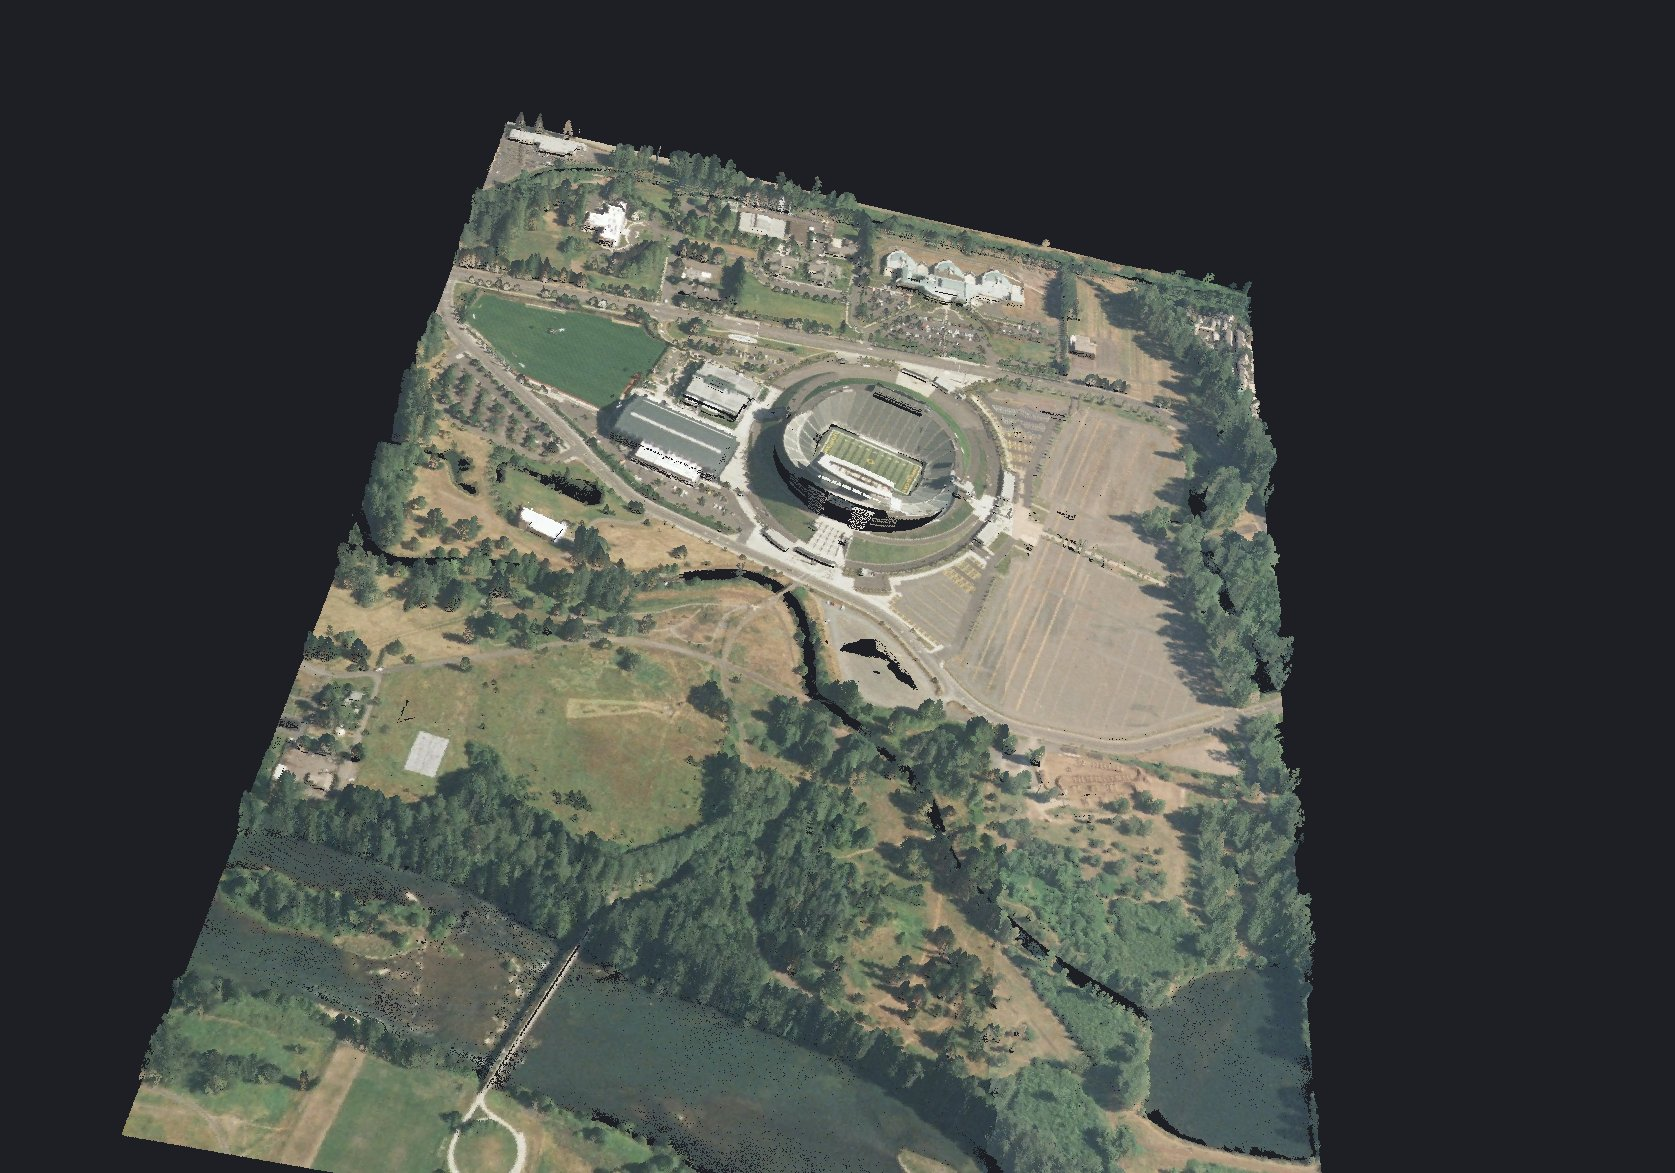
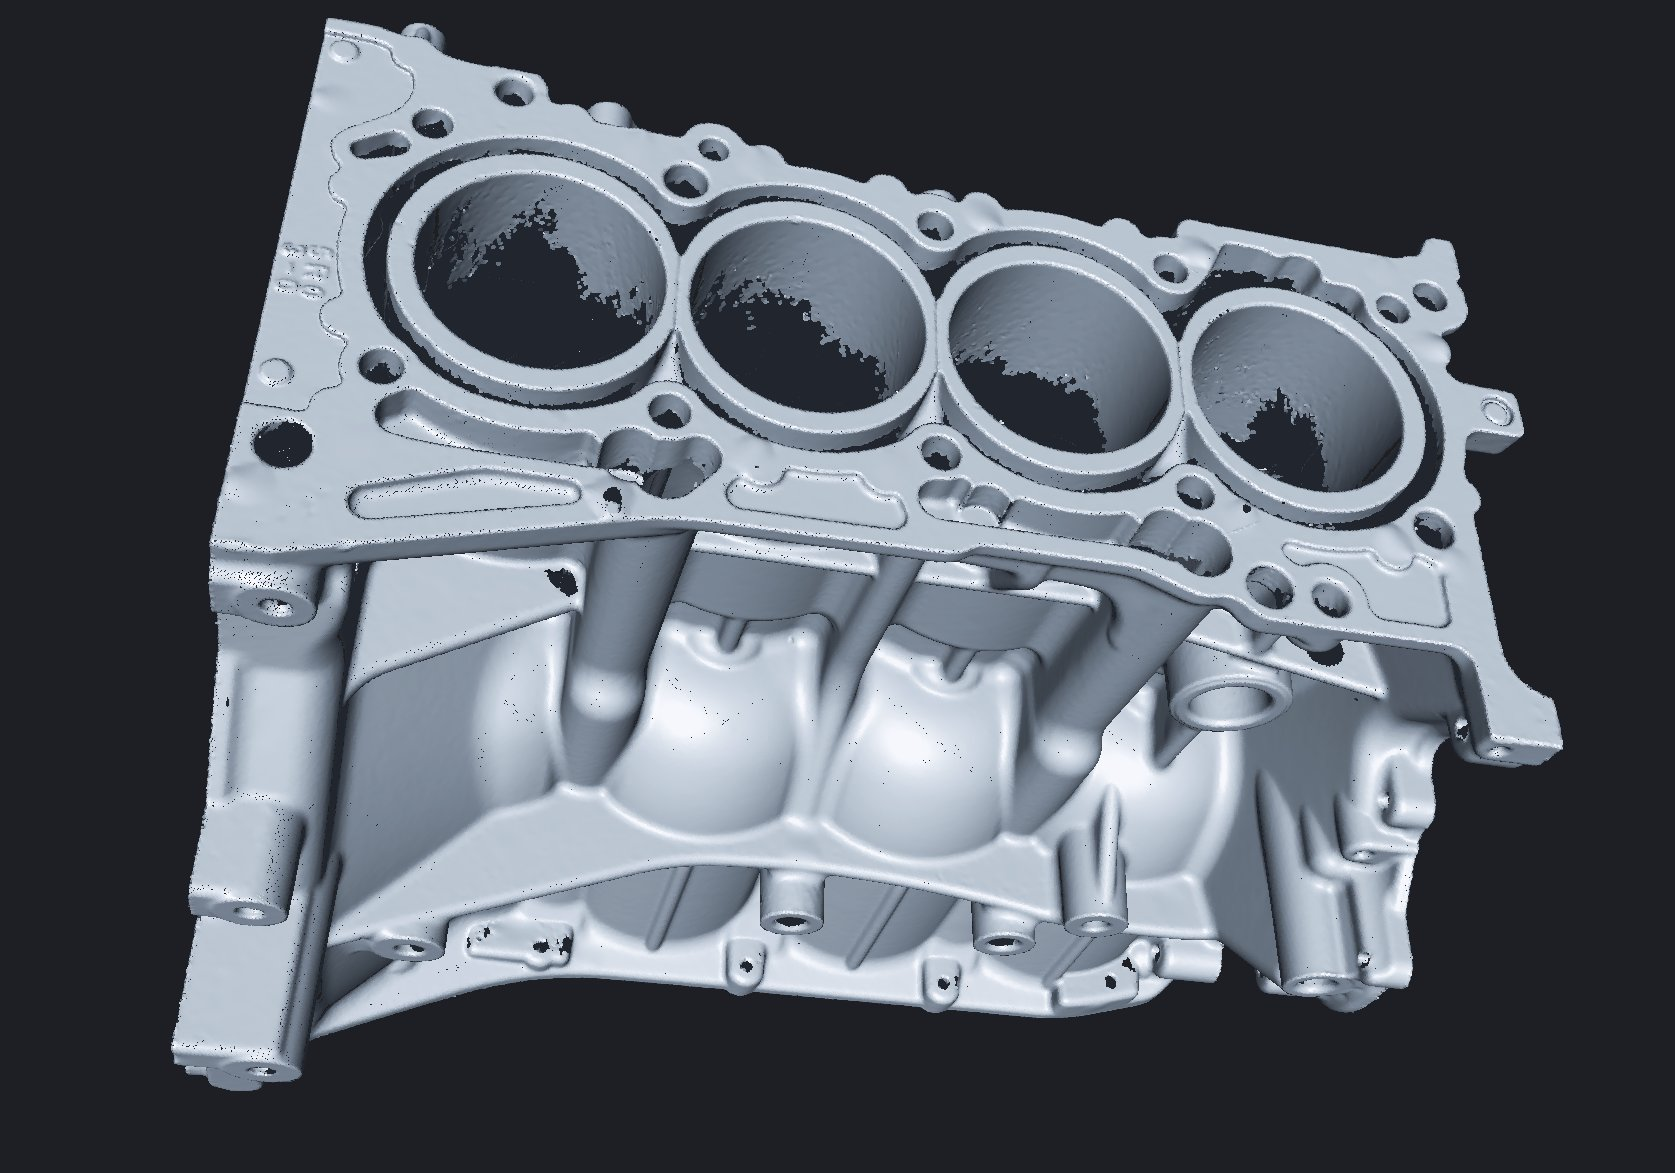
feat: 首屏换成带法线光照的缸体扫描点云

diff --git a/index.html b/index.html
@@ -34,7 +34,7 @@
       <a class="hero-link" href="#viewer">了解 GeoVision Viewer →</a>
     </div>
     <figure class="hero-shot">
-      <img src="assets/shots/hero.jpg" alt="GeoVision Viewer 显示一千万点的城市航测点云" width="1600" height="1000">
+      <img src="assets/shots/hero.jpg" alt="GeoVision Viewer 显示带法线光照的发动机缸体扫描点云（446 万点）" width="1675" height="1173">
     </figure>
   </div>
 </section>

diff --git a/README.md b/README.md
@@ -20,7 +20,7 @@ python -m http.server -d C:\GV\geovision\site 8000
 
 | 文件 | 内容 | 拍法 |
 |---|---|---|
-| `hero.jpg` | `01_点云_PointCloud/LAS/autzen_stadium.las` | 只导出视口；背景 `#1d1f24`；透视开；斜俯视 |
+| `hero.jpg` | `real6.ply`（发动机缸体扫描，446 万点，带法线） | 只导出视口；背景 `#1d1f24`、不显示坐标轴；透视开；点大小 2；显示 → 法线光照（原始颜色）；斜视看到四个缸孔。导出后把物体部分的亮度映射到冷钢色调（深 `#21262e` → 中 `#78859a` → 亮 `#f5f7fc`，轻度 S 曲线），背景不动 |
 | `formats.jpg` | `E57/bunnyDouble.e57` + `02_Mesh网格/STL/stanford_bunny.stl` + `03_数模_CAD/IGES/impeller.igs` | 整窗；目录树里三种类型；斜视 |
 | `bigcloud.jpg` | 先开 `03_数模_CAD/STEP/as1-ac-214.stp`，再后台打开 autzen | 整窗；进度条约一半时截 |
 | `cad.jpg` | `03_数模_CAD/STEP/as1-ac-214.stp` | 只导出视口；背景 `#1d1f24`；带边线着色；斜视 |
